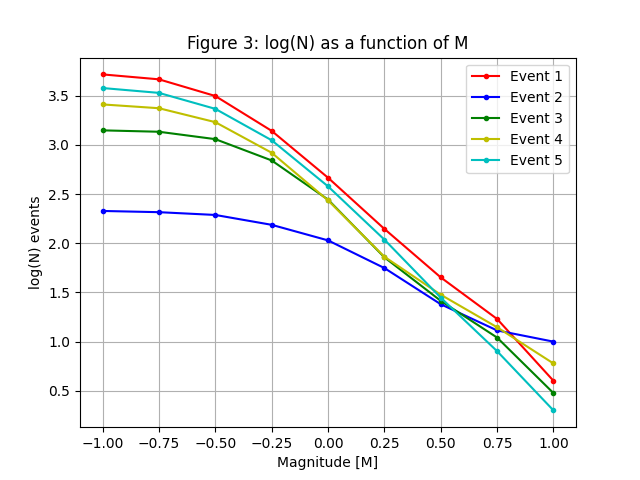
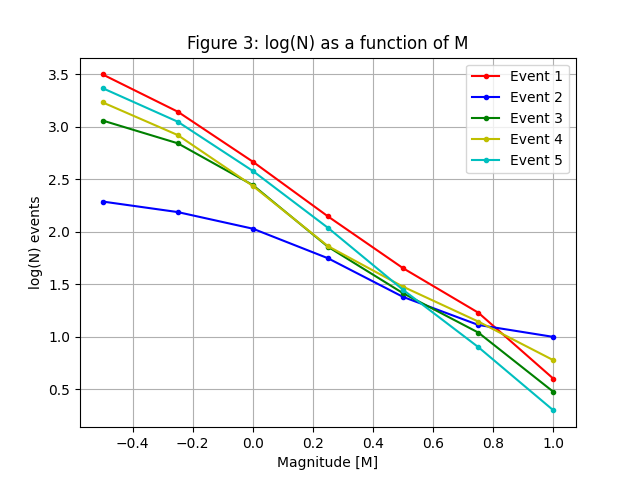
:)

diff --git a/src/LSR/driver.py b/src/LSR/driver.py
@@ -21,7 +21,7 @@ def main():
 
     #5 distinct events are evident from fig. 1: Creates boundaries for these events and plotting increments for later figures.
     boundaries = [1e-8,34,45,71,96,time[-1]]
-    incr = np.array([-1.0,-0.75,-0.5,-0.25,0,0.25,0.5,0.75,1.0])
+    incr = np.array([-0.5,-0.25,0,0.25,0.5,0.75,1.0])
 
     #Plots vertical lines indicating event boundaries
     plt.figure()
